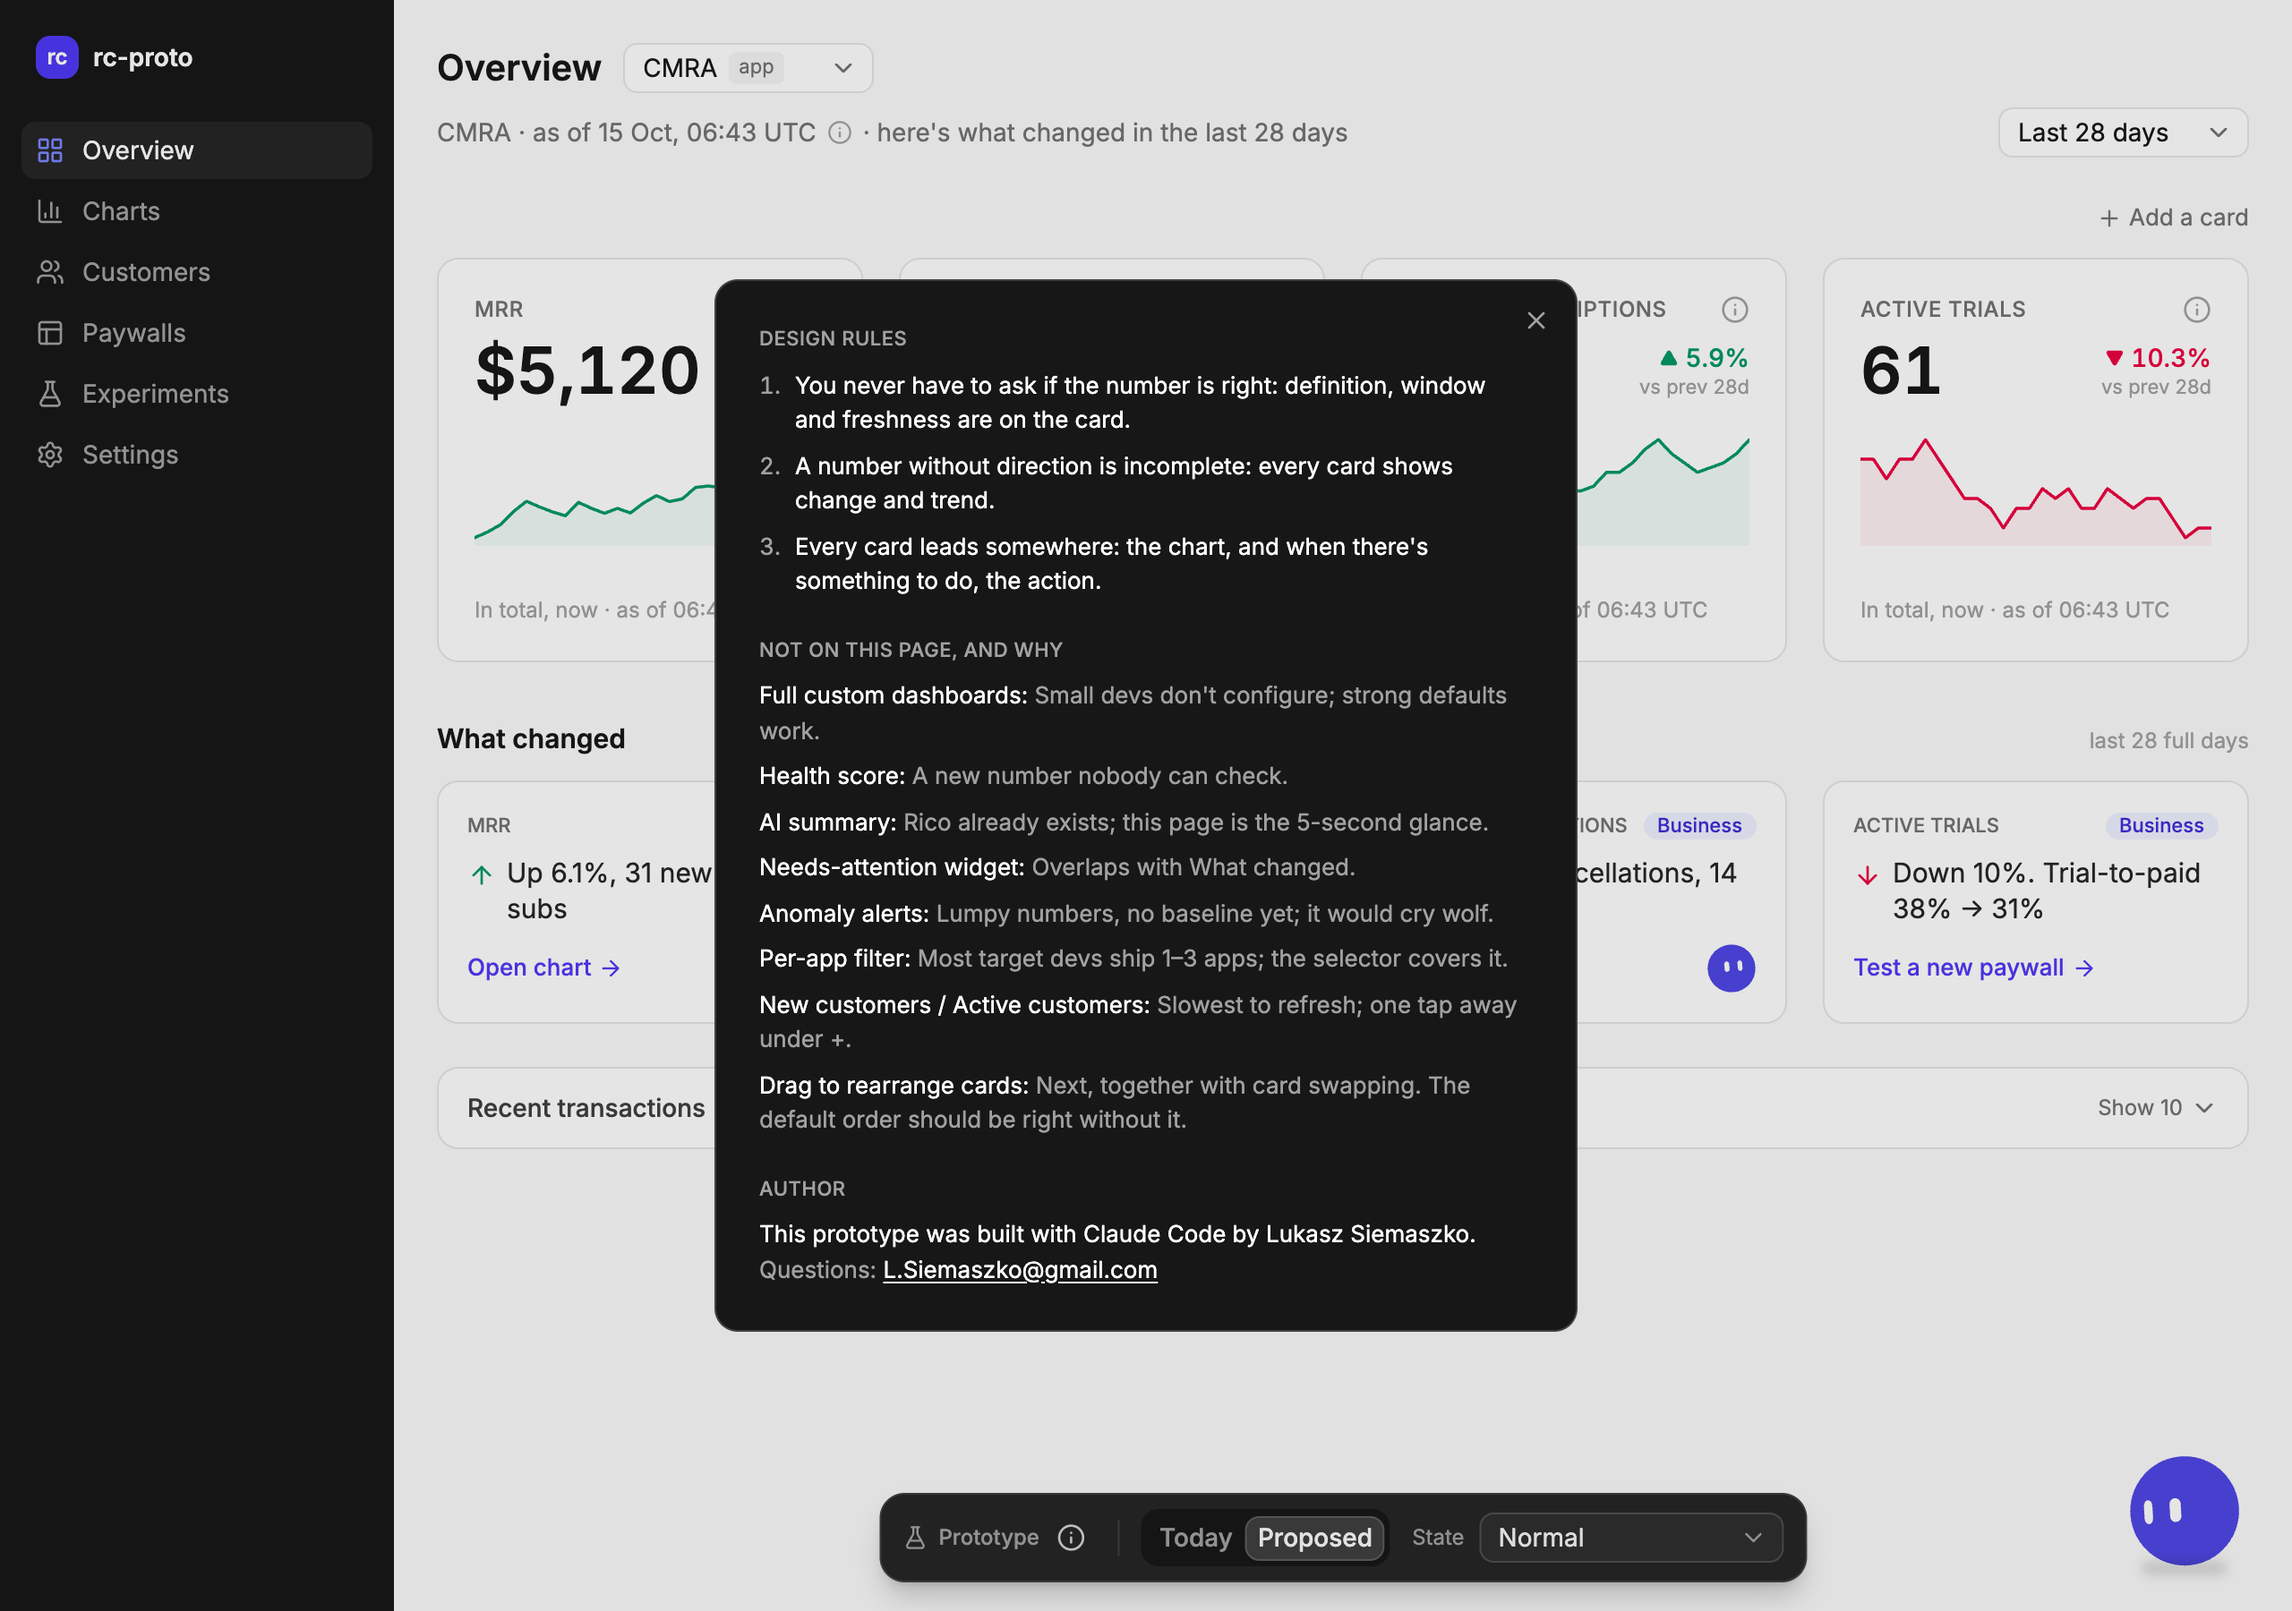
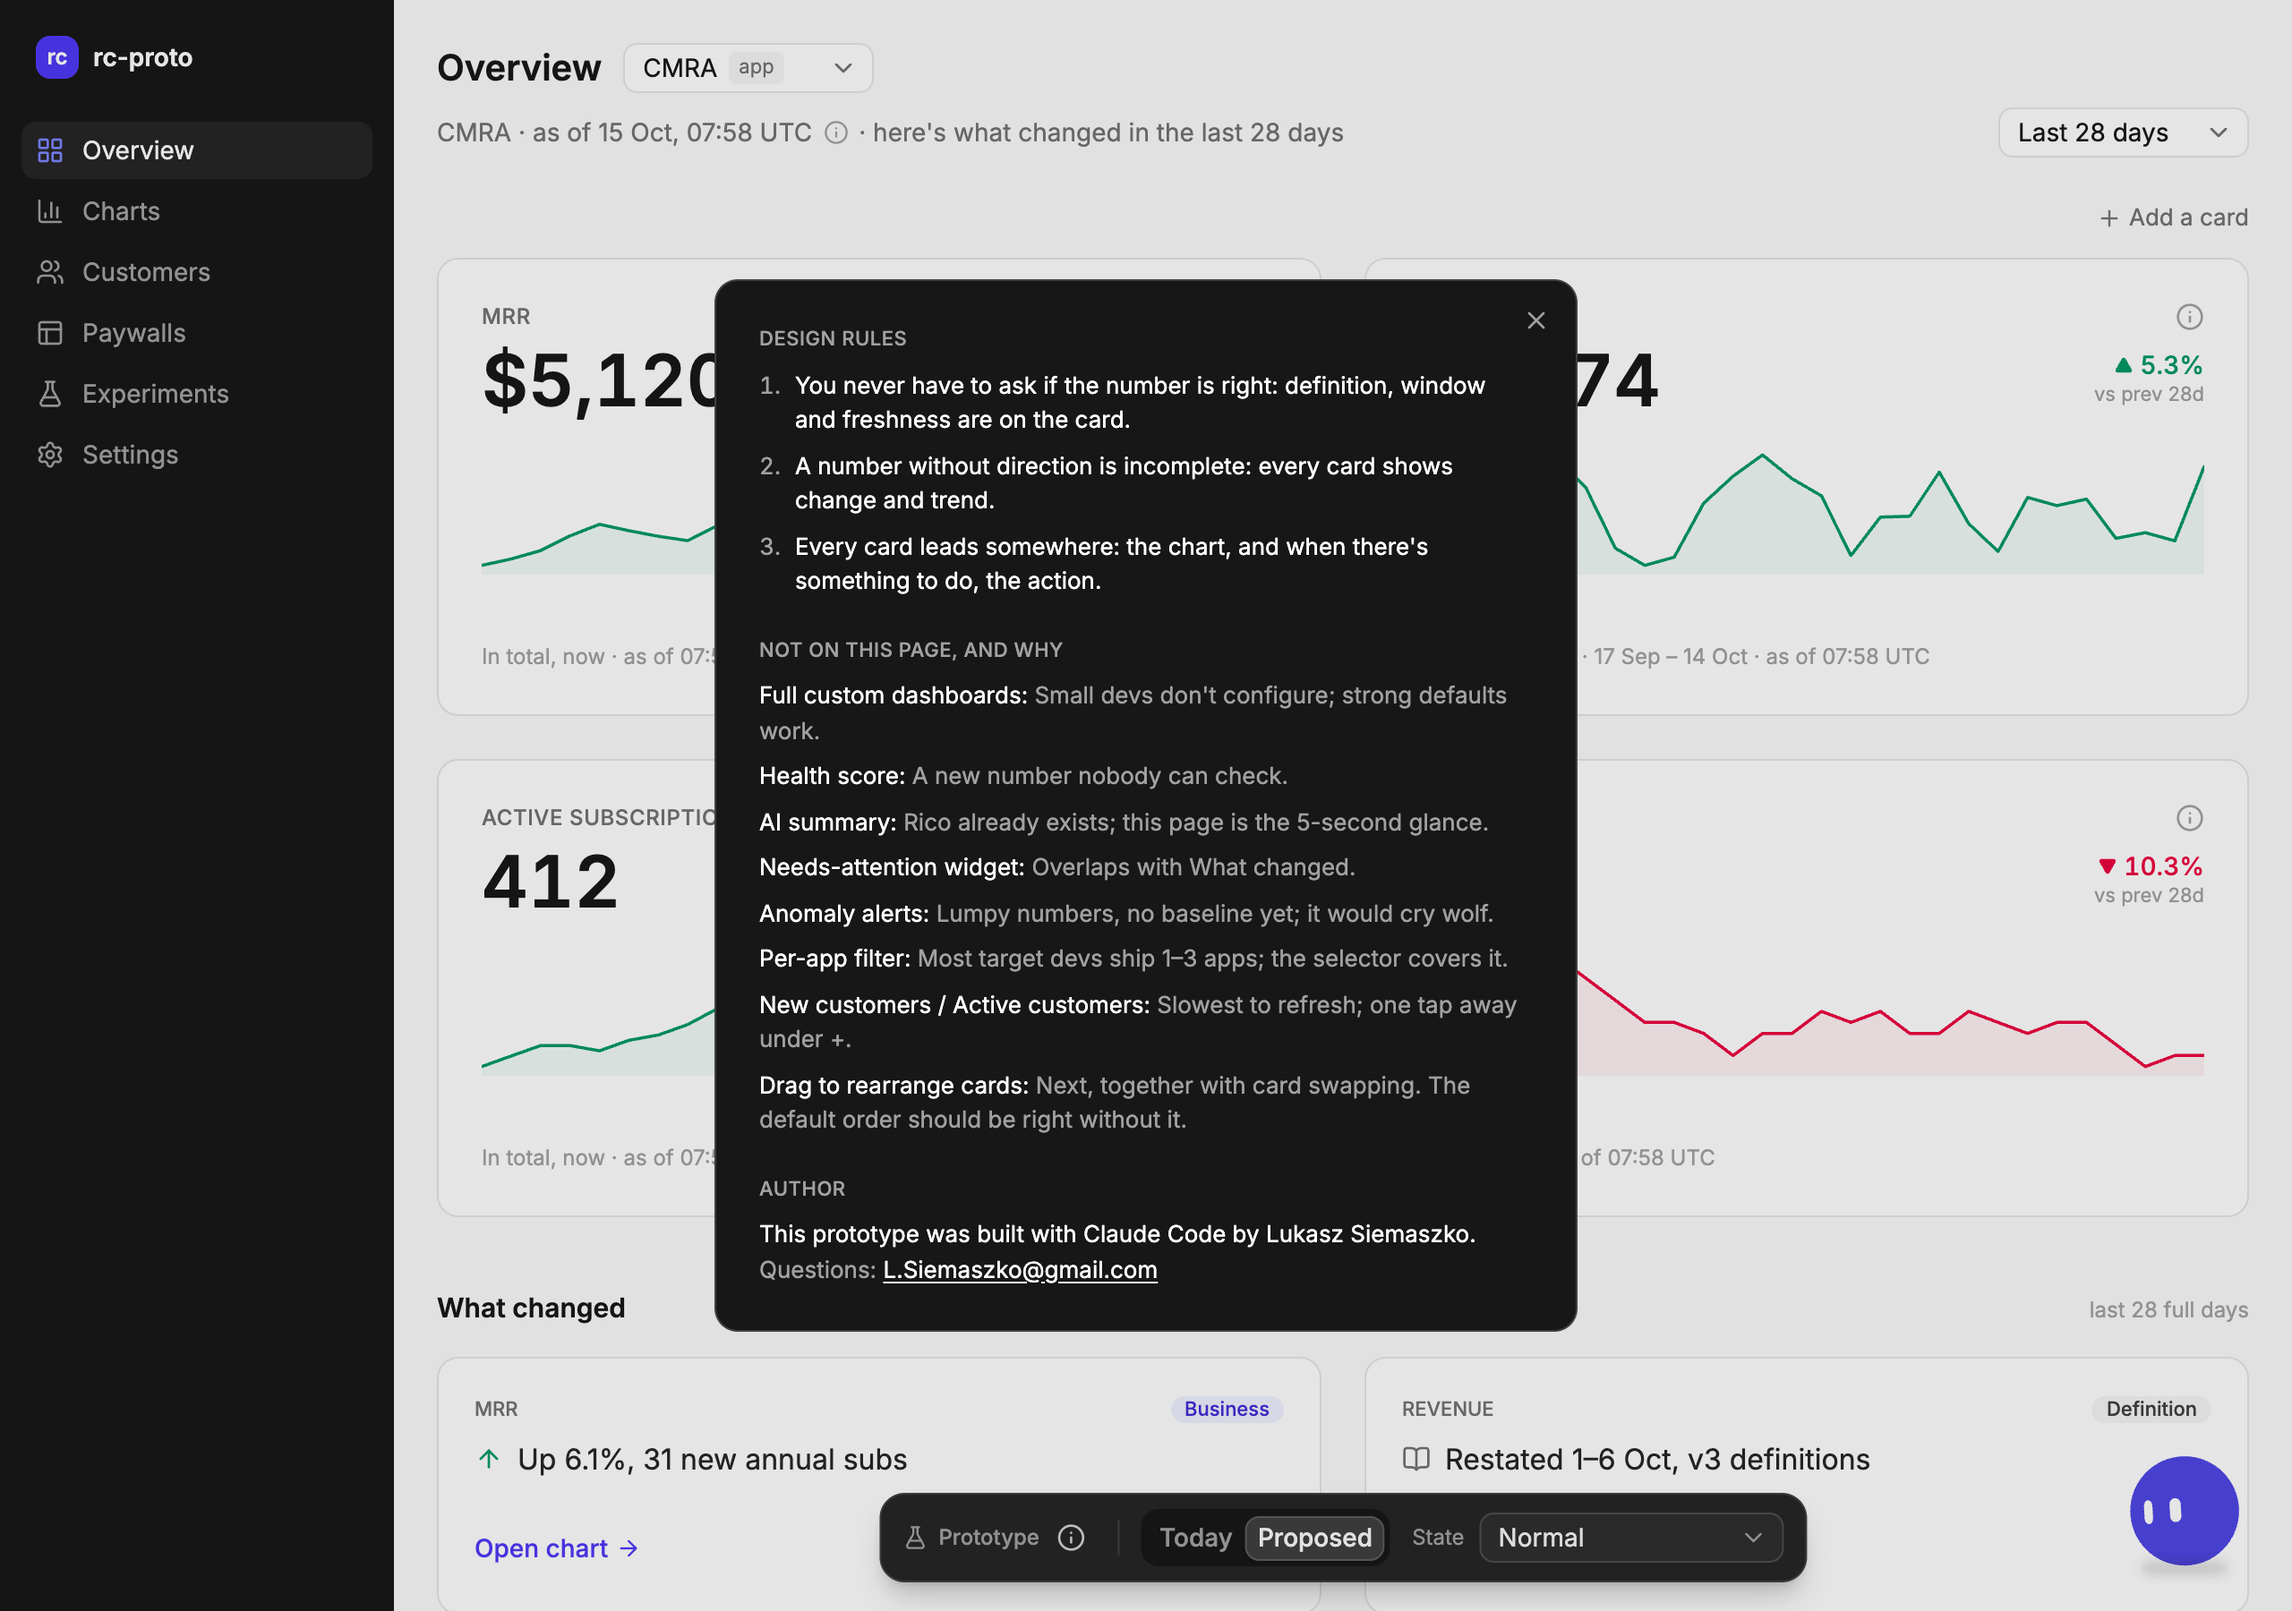
Round 13: two-column grid for cards and What changed at every width above phone

diff --git a/src/components/Sections.tsx b/src/components/Sections.tsx
@@ -34,7 +34,7 @@ const DIRECTION = {
   info: { Icon: BookOpen, tone: "text-neutral-500" },
 } as const;
 
-const tile = "min-h-[120px] rounded-[12px] border border-neutral-200 bg-white p-4";
+const tile = "min-h-[144px] rounded-[12px] border border-neutral-200 bg-white p-5";
 
 // One row of four compact tiles, each under its card in the same grid. The header's period
 // picker drives them. Metric label + tag; icon + a sentence of at most two lines; the action
@@ -57,9 +57,9 @@ export function WhatChanged({
     cardId: w.card_id, kind: w.kind, text: w.text[preset], direction: w.direction[preset], action: w.action[preset],
   });
   return (
-    <section className="flex flex-col gap-3" aria-labelledby="what-changed">
-      {/* 15px semibold, 32px above (24px page gap + 8px), 12px below. Same grid as the cards. */}
-      <div className="mt-2 flex items-baseline justify-between gap-3">
+    <section className="flex flex-col gap-4" aria-labelledby="what-changed">
+      {/* 15px semibold, 40px above (24px page gap + 16px), 16px below. Same grid as the cards. */}
+      <div className="mt-4 flex items-baseline justify-between gap-3">
         <h2 id="what-changed" className="text-[15px] font-semibold text-neutral-900">What changed</h2>
         <span className="text-xs text-neutral-400">last {presetDays[preset]} full days</span>
       </div>
@@ -88,21 +88,21 @@ export function WhatChanged({
                   {business ? "Business" : "Definition"}
                 </span>
               </div>
-              <p className="flex gap-1.5 text-[15px] leading-snug text-neutral-800">
+              <p className="flex gap-2 text-base leading-snug text-neutral-800">
                 <Icon className={cn("mt-[3px] size-4 shrink-0", tone)} />
                 <span className="line-clamp-2">{item.text}</span>
               </p>
-              <div className="mt-auto flex min-h-7 items-center justify-between gap-2">
-                <button onClick={() => onAction(item)} className="flex items-center gap-1 text-[13px] font-medium text-indigo-600 hover:underline">
+              <div className="mt-auto flex min-h-8 items-center justify-between gap-2">
+                <button onClick={() => onAction(item)} className="flex items-center gap-1 text-sm font-medium text-indigo-600 hover:underline">
                   {item.action.label} <ArrowRight className="size-3.5" />
                 </button>
                 {item.action.type === "chart" && (
                   <Tooltip>
                     <TooltipTrigger
                       render={<button onClick={() => onAskRico(item)} aria-label="Ask Rico why" />}
-                      className="grid size-7 shrink-0 place-items-center rounded-full transition-transform hover:scale-110 focus-visible:ring-2 focus-visible:ring-indigo-300 focus-visible:outline-none"
+                      className="grid size-8 shrink-0 place-items-center rounded-full transition-transform hover:scale-110 focus-visible:ring-2 focus-visible:ring-indigo-300 focus-visible:outline-none"
                     >
-                      <RicoAvatar size={28} />
+                      <RicoAvatar size={32} />
                     </TooltipTrigger>
                     <TooltipContent>Ask Rico why</TooltipContent>
                   </Tooltip>

diff --git a/src/components/MetricCard.tsx b/src/components/MetricCard.tsx
@@ -58,7 +58,7 @@ export function MetricCard({ card, preset, window, notes, onRemove, asOf, gated,
       aria-label={`${card.label}, open chart`}
       onClick={onOpenChart}
       onKeyDown={(e) => e.key === "Enter" && onOpenChart()}
-      className="group/metric relative min-h-[200px] cursor-pointer gap-0 rounded-[12px] border border-neutral-200 bg-white p-5 shadow-none ring-0 transition-colors hover:border-neutral-300 focus-visible:outline-2 focus-visible:outline-indigo-600"
+      className="group/metric relative min-h-[256px] cursor-pointer gap-0 rounded-[12px] border border-neutral-200 bg-white p-6 shadow-none ring-0 transition-colors hover:border-neutral-300 focus-visible:outline-2 focus-visible:outline-indigo-600"
     >
       {sample && !empty && (
         <span aria-hidden className="pointer-events-none absolute inset-0 flex items-center justify-center text-5xl font-semibold tracking-widest text-neutral-900/[0.04] uppercase select-none -rotate-12">
@@ -104,7 +104,7 @@ export function MetricCard({ card, preset, window, notes, onRemove, asOf, gated,
 
       {/* Number left, delta chip right on the same baseline; "vs prev" under the chip. */}
       <div className="mt-2 flex items-start justify-between gap-2">
-        <span className={cn("text-4xl leading-none font-semibold tabular-nums", empty ? "text-neutral-300" : "text-neutral-900")}>
+        <span className={cn("text-[40px] leading-none font-semibold tabular-nums", empty ? "text-neutral-300" : "text-neutral-900")}>
           {empty ? "-" : formatValue(p.value, card.unit)}
         </span>
         {empty ? (
@@ -124,8 +124,8 @@ export function MetricCard({ card, preset, window, notes, onRemove, asOf, gated,
 
       {!empty && (
         <>
-          <div className={cn("mt-4 h-16", tone)}>
-            {!gated && <Sparkline points={p.sparkline} drawIn={sample} strokeWidth={1.75} area className="h-16 w-full" />}
+          <div className={cn("mt-4 h-[72px]", tone)}>
+            {!gated && <Sparkline points={p.sparkline} drawIn={sample} strokeWidth={1.75} area className="h-[72px] w-full" />}
           </div>
           <p className="mt-auto pt-3 text-xs text-neutral-400">{line}</p>
         </>

diff --git a/src/App.tsx b/src/App.tsx
@@ -149,8 +149,8 @@ export default function App() {
           <main
             className={cn(
               "mx-auto flex w-full flex-col gap-6 pt-6 pb-24",
-              // Today keeps the page as it is; Proposed gets the 1120px column with 24px sides.
-              view === "today" ? "max-w-[1200px] px-4 md:px-8" : "max-w-[1120px] px-6",
+              // Today keeps the page as it is; Proposed gets the 1320px column with 24px sides.
+              view === "today" ? "max-w-[1200px] px-4 md:px-8" : "max-w-[1320px] px-6",
             )}
           >
             <header className="flex flex-col gap-2">

diff --git a/src/lib/grid.ts b/src/lib/grid.ts
@@ -1,2 +1,3 @@
 // Proposed view: the grid shared by the KPI cards and the What changed tiles, so they line up.
-export const GRID = "grid grid-cols-1 gap-x-5 gap-y-6 md:grid-cols-2 lg:grid-cols-4";
+// Two equal columns from 768px up at every width (round 13), one on a phone.
+export const GRID = "grid grid-cols-1 gap-6 md:grid-cols-2";

diff --git a/README.md b/README.md
@@ -25,17 +25,17 @@ Push to `main` deploys to Netlify.
   right after "Prototype" (round 12; a divider follows it) opens "About this prototype", a
   centered dark dialog: design rules, "Not on this page, and why" and Author (this replaced
   the page footer and its modal in round 11).
-- **Proposed** (round 9 layout): a 1120px column with 24px sides. Header (round 11): "Overview" and the
+- **Proposed** (round 13 layout): a 1320px column with 24px sides. Header (round 11): "Overview" and the
   project selector ("CMRA" with an "app" chip; "All projects" disabled, "Next"), then one line
   "CMRA · as of 15 Oct, 09:14 UTC (i) · here's what changed in the last 28 days" (the phrase
   follows the picker; 7d before noon local time says "this morning") with the 7d / 28d / 90d
   picker on the right (it drives Revenue and every delta). A line with "+ Add a card" (adds up to two of New customers, Active customers, Trial
   conversion, Churn, Realized LTV, each with its own one-liner, removable, in memory only; they go to a second row), then
-  one row of four cards, money first (round 12): MRR, Revenue, Active subscriptions, Active trials (4 columns, 2x2 on
-  a tablet, 1 on a phone). **What changed** (round 10): four tiles in the same grid, each
+  four cards, money first (round 12): MRR, Revenue, Active subscriptions, Active trials, in a
+  2x2 grid at every width from 768px (round 13; 24px gaps, 1 column on a phone). **What changed** (round 10): four 144px tiles in the same 2-column grid (40px above the title, 16px below), each
   under its card, driven by the header's period picker (copy, direction and action per
   7d/28d/90d; subtitle "last N full days"). Each tile: metric label + tag; icon + a sentence
-  of at most two lines; the action link, plus a 28px Rico button that pre-fills the chat only
+  of at most two lines; the action link, plus a 32px Rico button that pre-fills the chat only
   where the action is "Open chart". Below the volume gate four muted tiles. Recent
   transactions (collapsed). No page footer since round 11.
 - **Rico mascot** (round 5): an indigo blob whose eyes are holes in the body, drawn with the
@@ -67,11 +67,10 @@ Push to `main` deploys to Netlify.
     SDK step, "Open <flow>" (toast stub) and a "Mark done" checkbox that updates the list.
     The 4 cards stay empty ("-", "No data yet") until "Show sample data" is on; then they fill
     with watermarked sample values and the sparklines draw in (600ms, ease-out).
-- **Card** (round 9): 200px tall. Label and (i); 36px number with a delta chip on the same
-  line ("▲ 5.9%", "vs prev 28d" under it; Churn going up is red); a 64px sparkline with a 6%
+- **Card** (round 9, sized up in round 13): 256px tall, 24px padding. Label and (i); 40px number with a delta chip on the same
+  line ("▲ 5.9%", "vs prev 28d" under it; Churn going up is red); a 72px sparkline with a 6%
   wash; one muted line ("In total, now · as of 09:14 UTC", Revenue: "Last 28 full days ·
-  17 Sep – 14 Oct · as of 09:14 UTC", the same period wording as the modals; it wraps to two
-  lines, so cards are 226px at 1280). No links on the face: the whole card opens the chart, and an arrow fades in
+  17 Sep – 14 Oct · as of 09:14 UTC", the same period wording as the modals). No links on the face: the whole card opens the chart, and an arrow fades in
   top-right on hover (always shown on touch). The (i) is a trust panel: definition, "Same
   definition as Charts v3", incl./excl. cancelled for Active subscriptions, and "See the 412
   subscriptions behind this number →" (opens the rows; trials, MRR and Revenue's 1,203

diff --git a/.ultra/todo.md b/.ultra/todo.md
@@ -68,3 +68,8 @@
 - [x] One period wording on cards and modals; Rico tooltip copy
 - [x] Card order MRR, Revenue, Active subscriptions, Active trials (tiles follow)
 - [x] Screenshots 02 and 04 re-taken and copied; README; deploy
+
+## Round 13: two-column grid (20 min box)
+- [x] 1320px column; cards and tiles in one 2-column grid from 768px, 24px gaps
+- [x] Cards 256px / 24px padding / 40px number / 72px sparkline; tiles 144px, 16px sentence, 32px Rico
+- [x] Checks at 1440x1000 and 1920x1080; screenshots 02 and 09 copied; README; deploy
